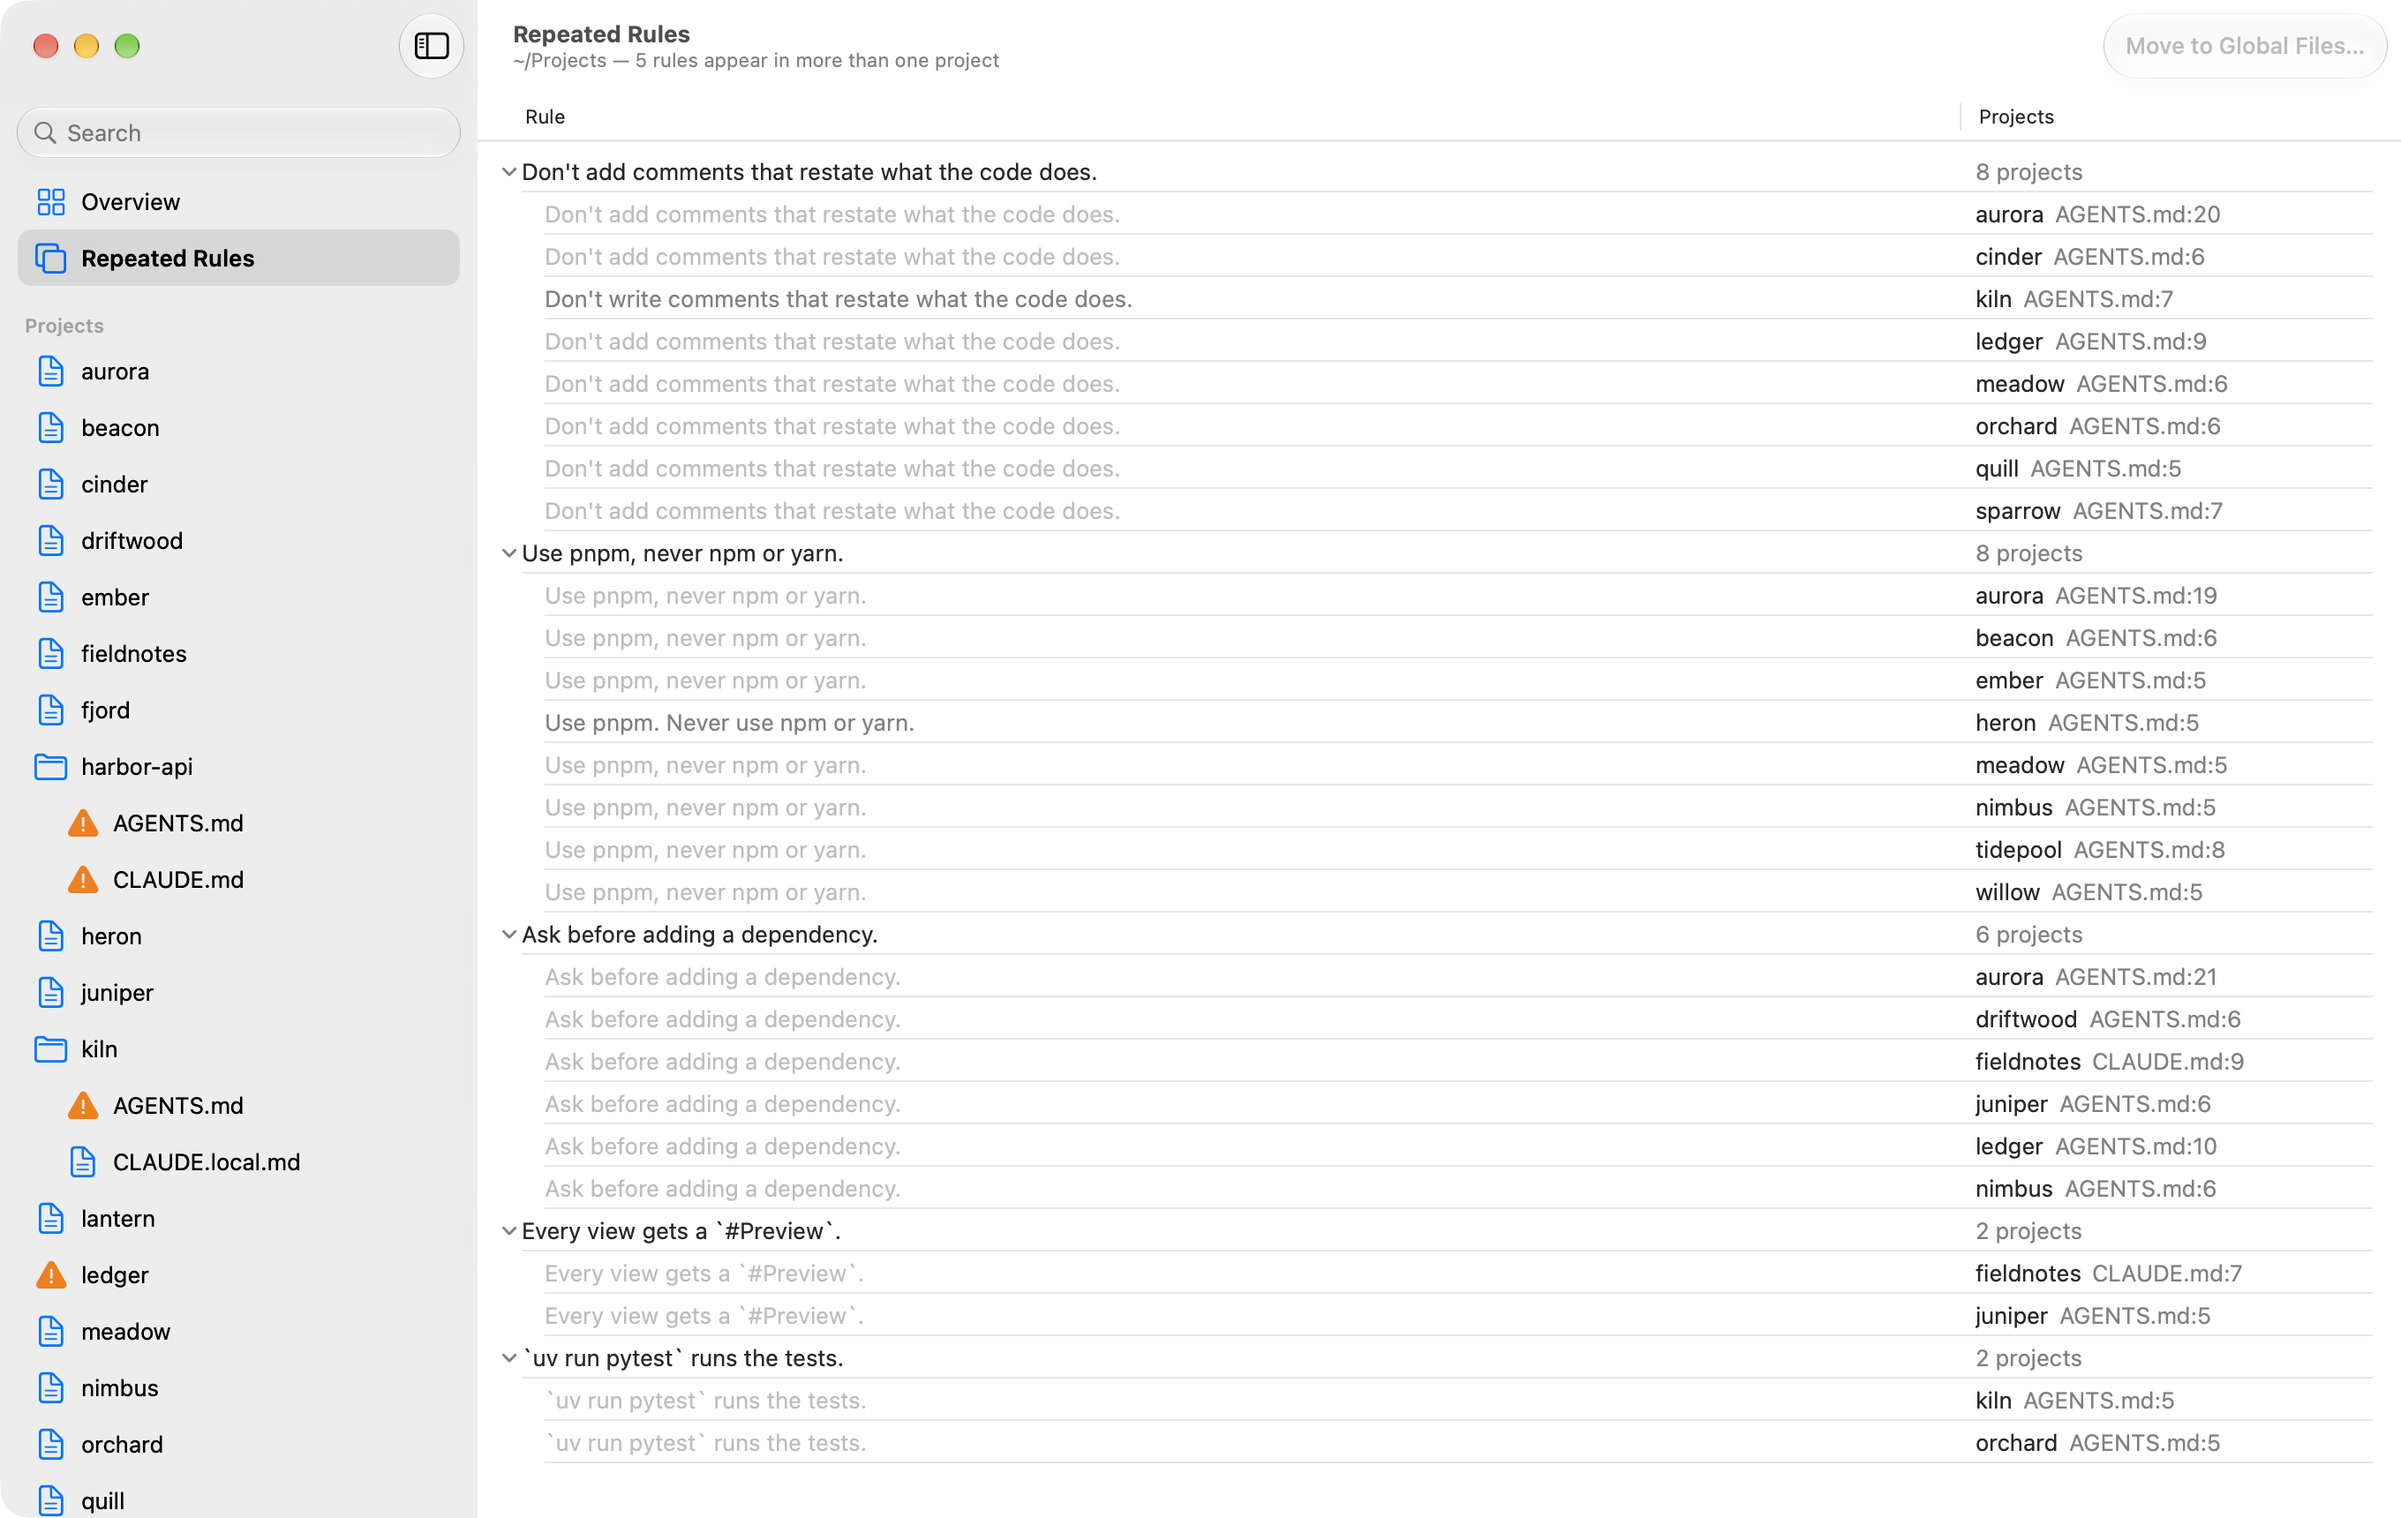
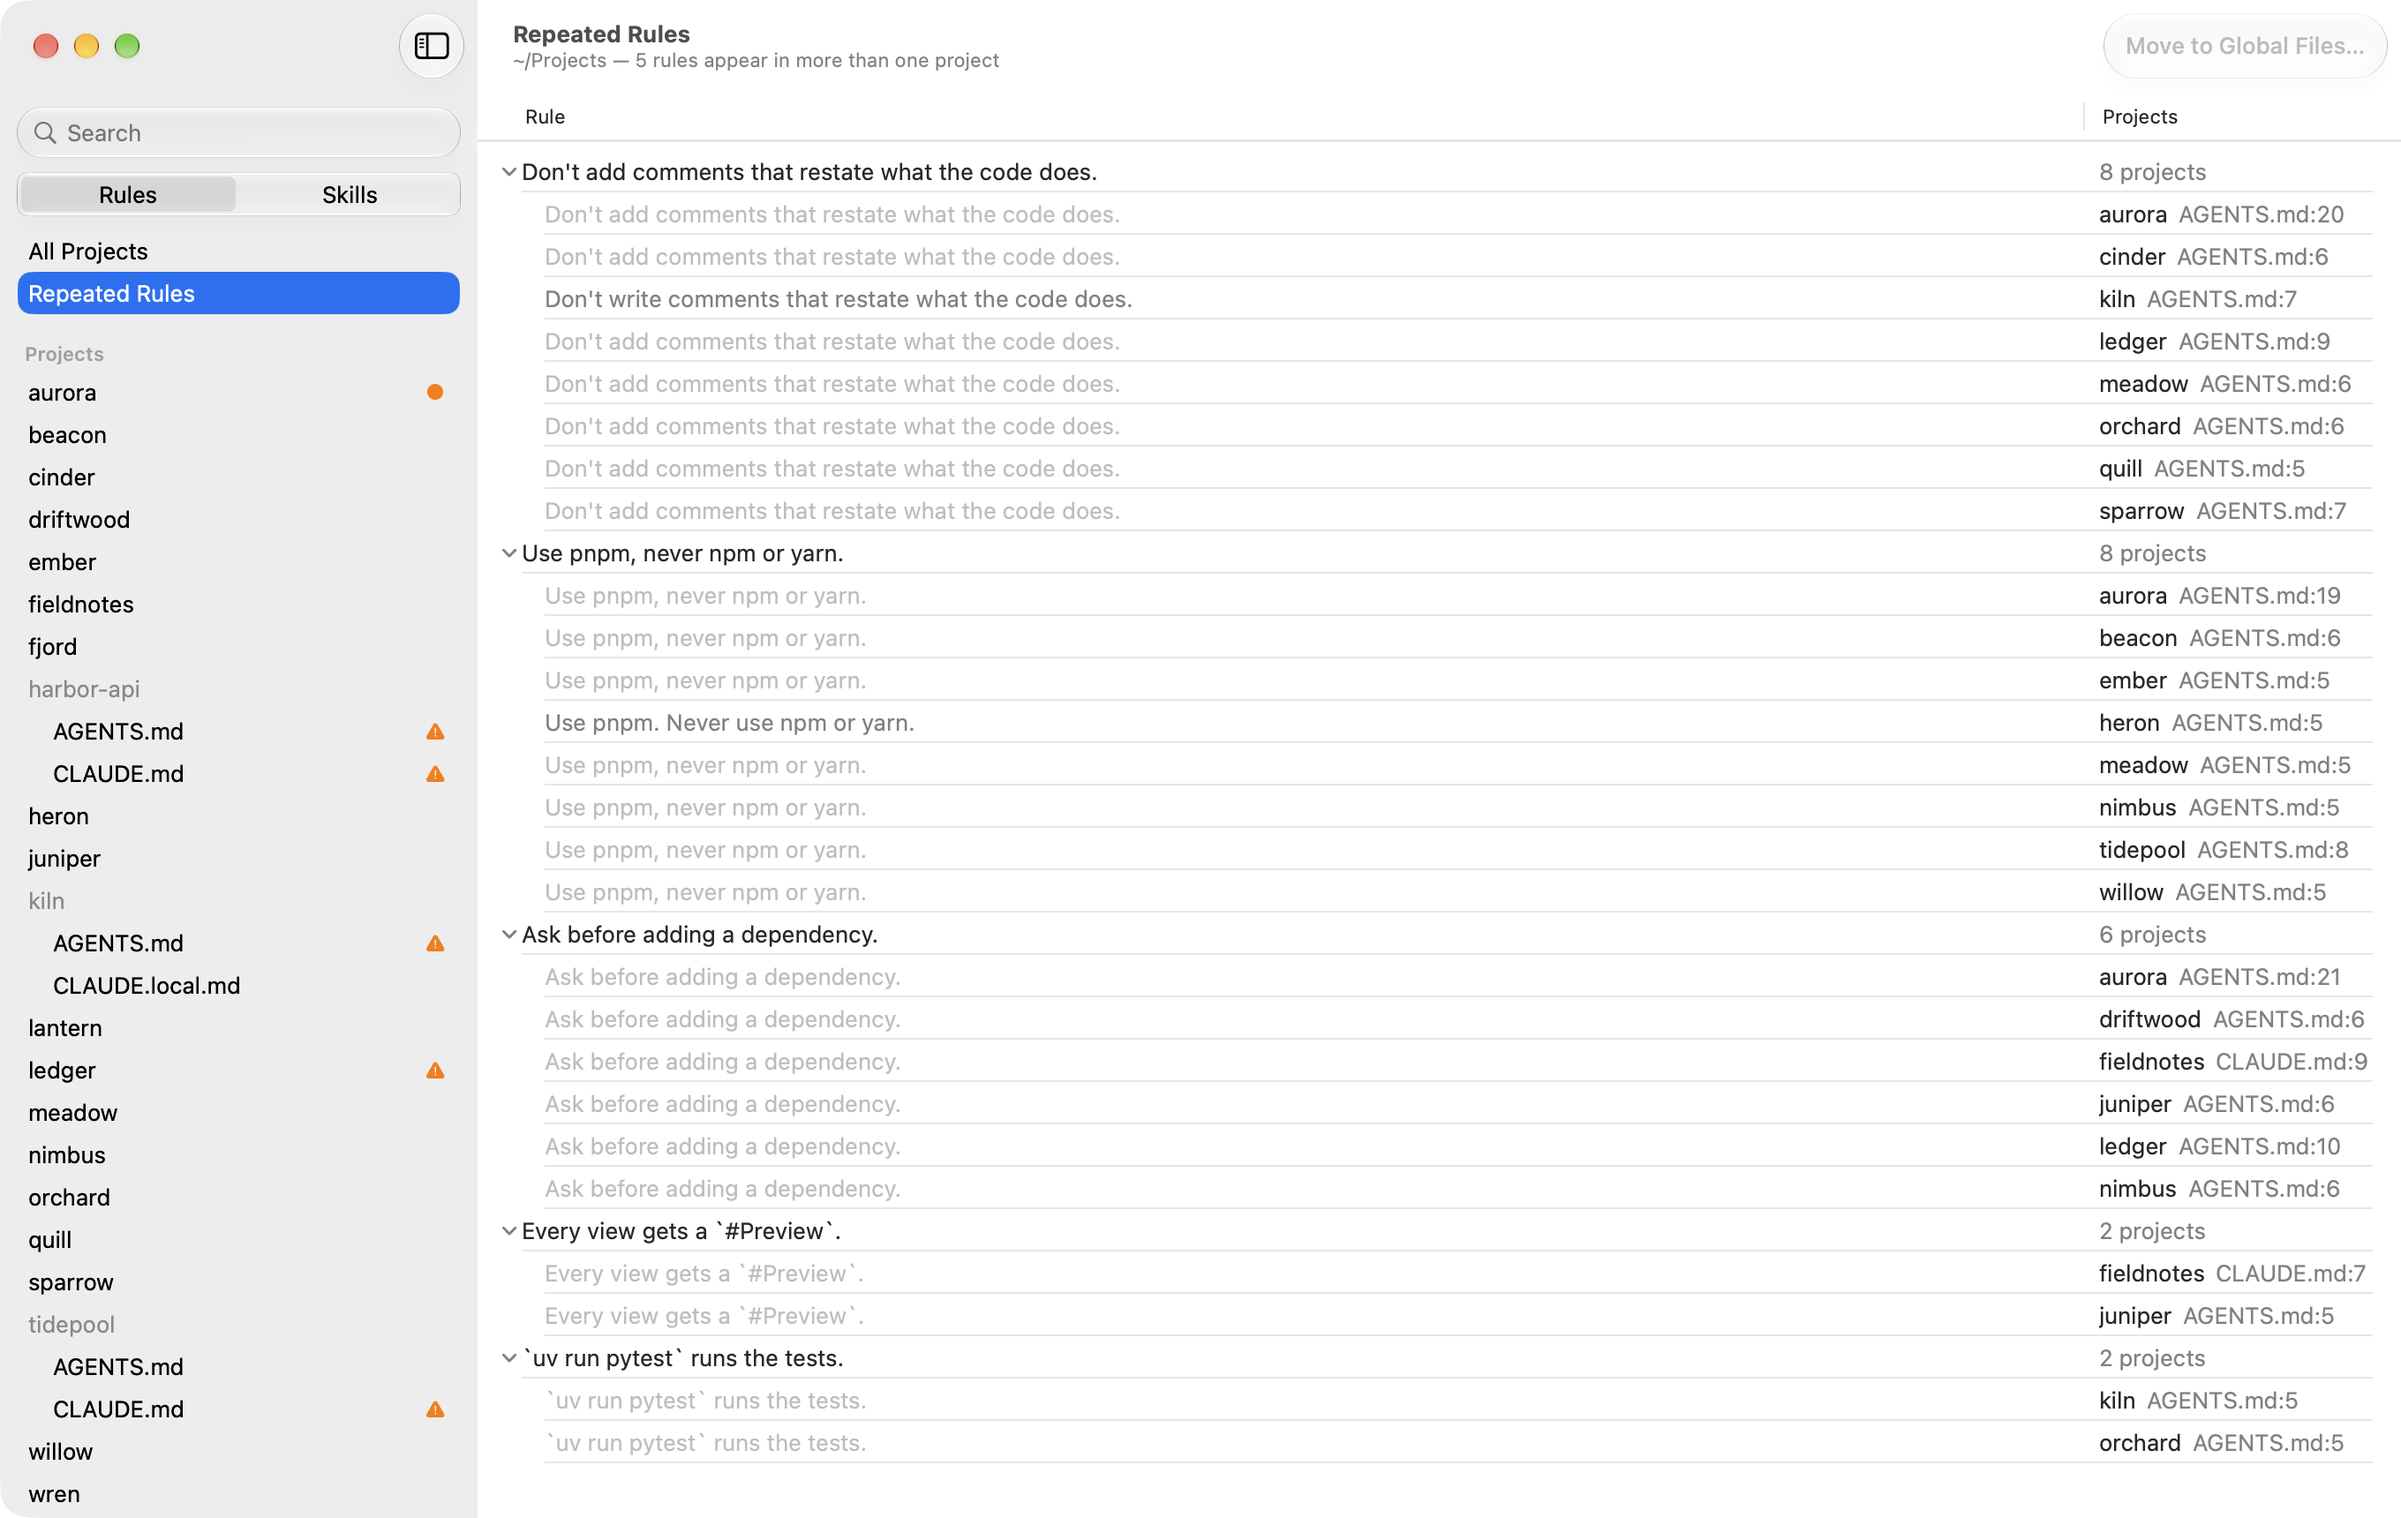
Show Skills on the website

Changed region(s): [[0.8125, 0.0616, 0.9688, 0.9552], [0.0, 0.1233, 0.1875, 1.0]]

diff --git a/docs/index.html b/docs/index.html
@@ -4,9 +4,9 @@
 <meta charset="utf-8">
 <meta name="viewport" content="width=device-width, initial-scale=1">
 <title>Rulebook: keep every agent on the same page</title>
-<meta name="description" content="A Mac app that finds every CLAUDE.md and AGENTS.md across your projects, shows which have drifted apart, and helps you fix them.">
+<meta name="description" content="A Mac app that finds every CLAUDE.md, AGENTS.md and skill across your projects, shows which have drifted apart, and helps you fix them.">
 <meta property="og:title" content="Rulebook: keep every agent on the same page">
-<meta property="og:description" content="A Mac app that finds every CLAUDE.md and AGENTS.md across your projects, shows which have drifted apart, and helps you fix them.">
+<meta property="og:description" content="A Mac app that finds every CLAUDE.md, AGENTS.md and skill across your projects, shows which have drifted apart, and helps you fix them.">
 <meta property="og:image" content="https://rulebook.duxi.ao/og-image.webp">
 <meta property="og:image:width" content="1200">
 <meta property="og:image:height" content="630">
@@ -38,14 +38,14 @@
 
 <main class="column">
   <div class="opening">
-    <p class="lede">Rulebook finds every <code>CLAUDE.md</code> and <code>AGENTS.md</code> your coding agents read, across all your projects. It shows which ones have drifted apart, which ones an agent never sees, and which were written for last year's models. Then it helps you fix them.</p>
+    <p class="lede">Rulebook finds every <code>CLAUDE.md</code>, <code>AGENTS.md</code> and skill your coding agents read, across all your projects. It shows which ones have drifted apart, which ones an agent never sees, and which were written for last year's models. Then it helps you fix them.</p>
     <div class="get">
       <a class="download" href="https://github.com/disinfeqt/rulebook/releases/latest/download/Rulebook.zip">Download for macOS</a>
       <p>Free and open source. Needs macOS 14 or later.</p>
     </div>
   </div>
 
-  <figure><img src="screenshots/overview.webp" width="2720" height="1720" alt="Rulebook's overview: every instruction file in a projects folder, which agents read it, and the ones that need attention at the top"></figure>
+  <figure><img src="screenshots/overview.webp" width="2720" height="1720" alt="Every instruction file in a projects folder, which agents read it, and the ones that need attention at the top"></figure>
 
   <section>
     <h2>See what each agent actually reads</h2>
@@ -57,7 +57,7 @@
       <dt>Diverged</dt><dd>Two files with different content, so each agent misses rules the other one gets.</dd>
       <dt>Skipped</dt><dd>An <code>AGENTS.md</code> that Claude Code never loads, because a <code>CLAUDE.local.md</code> or a parent <code>CLAUDE.md</code> takes its place.</dd>
     </dl>
-    <figure><img src="screenshots/editor.webp" width="2720" height="1720" loading="lazy" alt="Editing a CLAUDE.md that has diverged from its AGENTS.md. The inspector shows who reads the file and what is wrong with it"></figure>
+    <figure><img src="screenshots/editor.webp" width="2720" height="1720" loading="lazy" alt="Editing a CLAUDE.md that has diverged from its AGENTS.md. The inspector lists what is wrong with it, and the bar under the editor says who reads it"></figure>
   </section>
 
   <section>
@@ -70,6 +70,13 @@
     <h2>Find the rules you repeat across projects</h2>
     <p>Repeated Rules lists the rules written into more than one project, like “Use pnpm, never npm or yarn” in eight <code>AGENTS.md</code> files, and groups the ones worded differently. Move one to your global files and Rulebook adds it to <code>~/.claude/CLAUDE.md</code> and <code>~/.codex/AGENTS.md</code>, then takes the copies out of each project for you to review.</p>
     <figure><img src="screenshots/repeated.webp" width="2720" height="1720" loading="lazy" alt="Repeated Rules: a rule written into eight projects, one of them in different words, with where each copy is"></figure>
+  </section>
+
+  <section>
+    <h2>Get every skill to every agent</h2>
+    <p>Switch the sidebar from Rules to Skills and Rulebook lists the skills in each project and in your home folder: which agents load each one, where it was installed from, and what its name and description cost in every session.</p>
+    <p>Claude Code only looks in <code>.claude/skills</code>. Codex and most other agents look in <code>.agents/skills</code>. Rulebook finds the skills only one of them gets, the copies that have drifted apart and the links that point nowhere, and offers the fix. Skills installed with <code>npx skills</code> are grouped by where they came from, so forty from one repository are one row.</p>
+    <figure><img src="screenshots/skills.webp" width="2720" height="1720" loading="lazy" alt="The skills in every project: which agents load each one, where it was installed from, and the ones that need attention at the top"></figure>
   </section>
 
   <section>

diff --git a/docs/zh/index.html b/docs/zh/index.html
@@ -38,14 +38,14 @@
 
 <main class="column">
   <div class="opening">
-    <p class="lede">Rulebook 会找出所有项目里编程智能体读取的 <code>CLAUDE.md</code> 和 <code>AGENTS.md</code>，告诉你哪些已经互相不一致，哪些根本没被读到，哪些还是为去年的模型写的，然后帮你把它们修好。</p>
+    <p class="lede">Rulebook 会找出所有项目里编程智能体读取的 <code>CLAUDE.md</code>、<code>AGENTS.md</code> 和技能，告诉你哪些已经互相不一致，哪些根本没被读到，哪些还是为去年的模型写的，然后帮你把它们修好。</p>
     <div class="get">
       <a class="download" href="https://github.com/disinfeqt/rulebook/releases/latest/download/Rulebook.zip">下载 macOS 版</a>
       <p>免费开源，需要 macOS 14 或更高版本。</p>
     </div>
   </div>
 
-  <figure><img src="../screenshots/zh/overview.webp" width="2720" height="1720" alt="Rulebook 的概览：项目文件夹里的所有指令文件、由哪些智能体读取，需要处理的排在最前"></figure>
+  <figure><img src="../screenshots/zh/overview.webp" width="2720" height="1720" alt="项目文件夹里的所有指令文件、由哪些智能体读取，需要处理的排在最前"></figure>
 
   <section>
     <h2>看清每个智能体实际读到了什么</h2>
@@ -57,7 +57,7 @@
       <dt>内容不一致</dt><dd>两份内容不同的文件，每个智能体都读不到另一方的规则。</dd>
       <dt>被跳过</dt><dd><code>AGENTS.md</code> 被 <code>CLAUDE.local.md</code> 或上级目录的 <code>CLAUDE.md</code> 取代，Claude Code 不会加载它。</dd>
     </dl>
-    <figure><img src="../screenshots/zh/editor.webp" width="2720" height="1720" loading="lazy" alt="正在编辑一份与 AGENTS.md 不一致的 CLAUDE.md，检查器里显示谁在读取这个文件，以及它有什么问题"></figure>
+    <figure><img src="../screenshots/zh/editor.webp" width="2720" height="1720" loading="lazy" alt="正在编辑一份与 AGENTS.md 不一致的 CLAUDE.md，检查器里列出它的问题，编辑器下方的状态栏显示谁在读取它"></figure>
   </section>
 
   <section>
@@ -70,6 +70,13 @@
     <h2>找出在各个项目里重复的规则</h2>
     <p>“重复的规则”会列出写在多个项目里的规则，比如八份 <code>AGENTS.md</code> 里都有的“Use pnpm, never npm or yarn”，措辞不同的也会归在一起。把一条规则移到全局文件后，Rulebook 会把它加到 <code>~/.claude/CLAUDE.md</code> 和 <code>~/.codex/AGENTS.md</code>，再从各个项目中移除，存储前你可以先检查。</p>
     <figure><img src="../screenshots/zh/repeated.webp" width="2720" height="1720" loading="lazy" alt="重复的规则：一条写在八个项目里的规则，其中一份措辞不同，并列出每一份所在的位置"></figure>
+  </section>
+
+  <section>
+    <h2>让每个智能体都用上每个技能</h2>
+    <p>把边栏从“规则”切换到“技能”，Rulebook 会列出每个项目和个人文件夹里的技能：由哪些智能体加载、从哪里安装，以及它的名称和描述在每次会话中占用多少上下文。</p>
+    <p>Claude Code 只在 <code>.claude/skills</code> 里查找，Codex 和大多数其他智能体在 <code>.agents/skills</code> 里查找。Rulebook 会找出只有一方能用到的技能、内容已经不一致的副本和失效的链接，并给出修复办法。用 <code>npx skills</code> 安装的技能按来源归在一起，同一个仓库的四十个技能只占一行。</p>
+    <figure><img src="../screenshots/zh/skills.webp" width="2720" height="1720" loading="lazy" alt="所有项目里的技能：由哪些智能体加载、从哪里安装，需要处理的排在最前"></figure>
   </section>
 
   <section>

diff --git a/README.md b/README.md
@@ -6,7 +6,7 @@
 
 A native macOS app for the agent instruction files across your projects. Point it at the folder that holds your projects and it finds every `CLAUDE.md`, `AGENTS.md` and `CLAUDE.local.md`, works out how they relate, and lets you edit, compare, merge and audit them in one place.
 
-![Overview: every instruction file in a projects folder, with the ones that need attention first](docs/screenshots/overview.webp)
+![Every instruction file in a projects folder, with the ones that need attention first](docs/screenshots/overview.webp)
 
 The interface comes in English and Simplified Chinese (简体中文). It follows the system language, or the one you pick in Settings, and audits are written in the same language.
 
@@ -22,7 +22,7 @@ The interface comes in English and Simplified Chinese (简体中文). It follows
 
 It also flags broken `@imports`, stray `@mentions` that Claude Code would try to import, tool-written blocks (such as `convex-ai` or `nextjs-agent-rules`) that are loaded twice or differ between projects, files over 200 lines, and titles left over from copied files. Most issues come with a one-click fix.
 
-![Editing a diverged CLAUDE.md. The inspector shows who reads the file and what's wrong with it](docs/screenshots/editor.webp)
+![Editing a diverged CLAUDE.md. The inspector lists what's wrong with it, and the bar under the editor says who reads it](docs/screenshots/editor.webp)
 
 Rulebook watches the projects folder and your global folders, so a file changed in another editor, or a skill installed from a terminal, shows up within a second or so. Rescan (⌘R) scans on demand.
 
@@ -51,6 +51,8 @@ A switch at the top of the sidebar turns it from rules to skills: the same proje
 | Different versions | `.claude/skills` and `.agents/skills` hold folders that differ. Compare them, then keep one. |
 
 It also flags links that point nowhere, a SKILL.md without a description, links to files the skill doesn't have, a project skill hidden by a personal one of the same name, and copies that differ from the same skill in other projects. The skills a project got from one source are one row that opens, so forty from one repository don't fill the list. A skill opens in the editor like any other file. Select several skills, or a row that stands for a set of them, and Delete moves them to the Trash, where the folders a fix replaces go too.
+
+![The skills in every project: who loads each, where it was installed from, and the ones that need attention first](docs/screenshots/skills.webp)
 
 ## Audits
 
